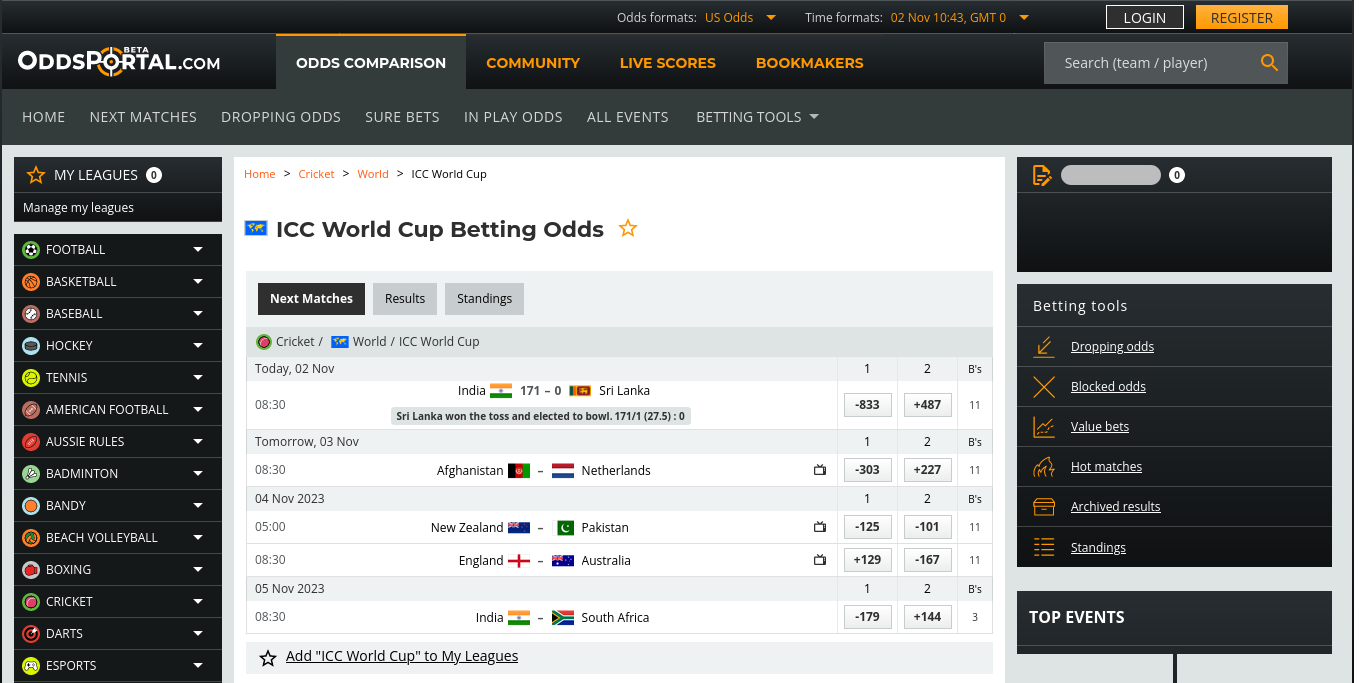
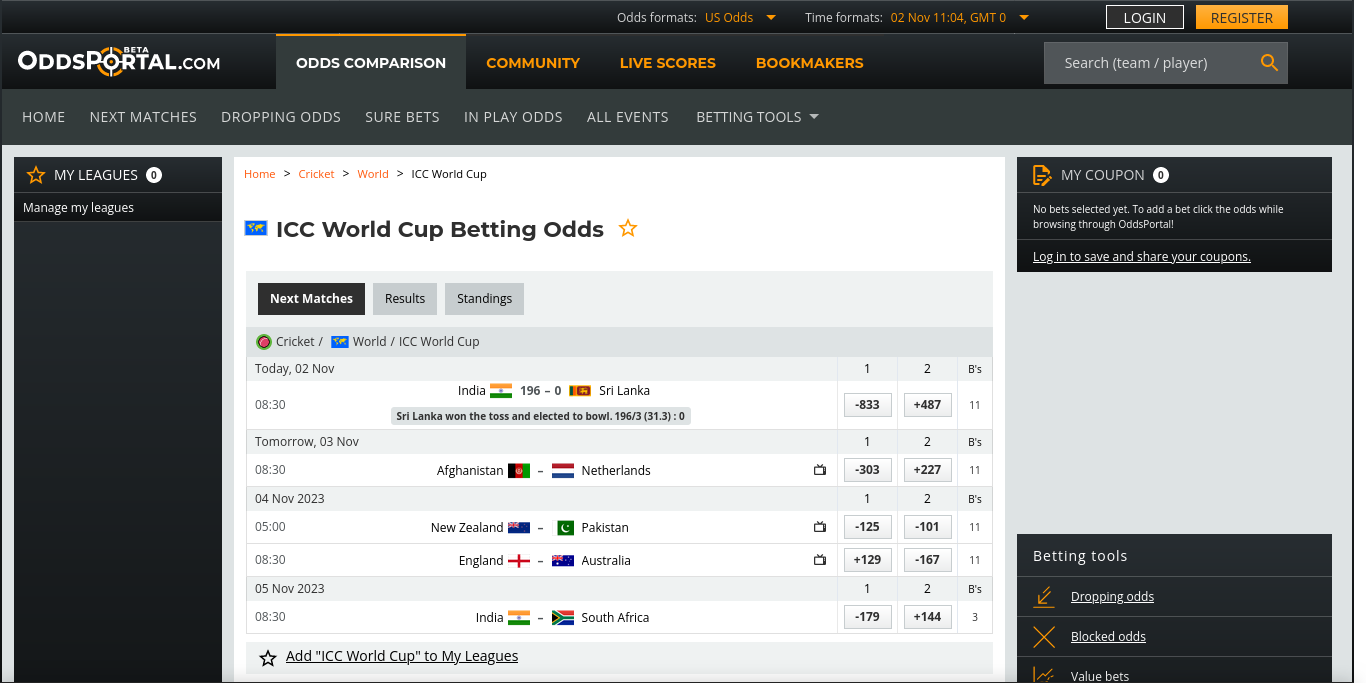
Update Data (Cron) Thu Nov  2 11:04:34 UTC 2023

diff --git a/src/nonview/constants/VERSION.js b/src/nonview/constants/VERSION.js
@@ -1,4 +1,4 @@
 // Auto-generated by javascript_version.py
-export const VERSION_UT = 1698921835;
+export const VERSION_UT = 1698923074;
 export const VERSION_DATETIME = new Date(VERSION_UT * 1_000);
 export const LAST_COMMIT_MESSAGE = "Updated 📊Data";

diff --git a/src/nonview/data/ODI_ID_TO_WINNER.js b/src/nonview/data/ODI_ID_TO_WINNER.js
@@ -1,6 +1,6 @@
 // Auto Generated by UpdateODIIDToWinner
 // https://www.cricbuzz.com/cricket-series/6732/icc-cricket-world-cup-2023/matches
-// 2023-11-02 16:13:29 +0000
+// 2023-11-02 16:34:14 +0000
 
 import { TEAM } from "../core/Team.js";
 

diff --git a/src/nonview/data/TEAM1_ID_TO_TEAM2_ID_TO_ODDS_PAIR.js b/src/nonview/data/TEAM1_ID_TO_TEAM2_ID_TO_ODDS_PAIR.js
@@ -1,6 +1,6 @@
 // Auto Generated by UpdateTeam1IDToTeam2IDToOddsPair
 // https://www.oddsportal.com/cricket/world/icc-world-cup/
-// 2023-11-02 16:13:48 +0000
+// 2023-11-02 16:34:29 +0000
 
 import { TEAM } from "../core/Team.js";
 

diff --git a/src/nonview/data/POINTS_TABLE.js b/src/nonview/data/POINTS_TABLE.js
@@ -1,6 +1,6 @@
 // Auto Generated by UpdatePointsTable
 // https://www.cricketworldcup.com/standings
-// 2023-11-02 16:13:39 +0000
+// 2023-11-02 16:34:22 +0000
 
 import { TEAM } from "../core/Team.js";
 
